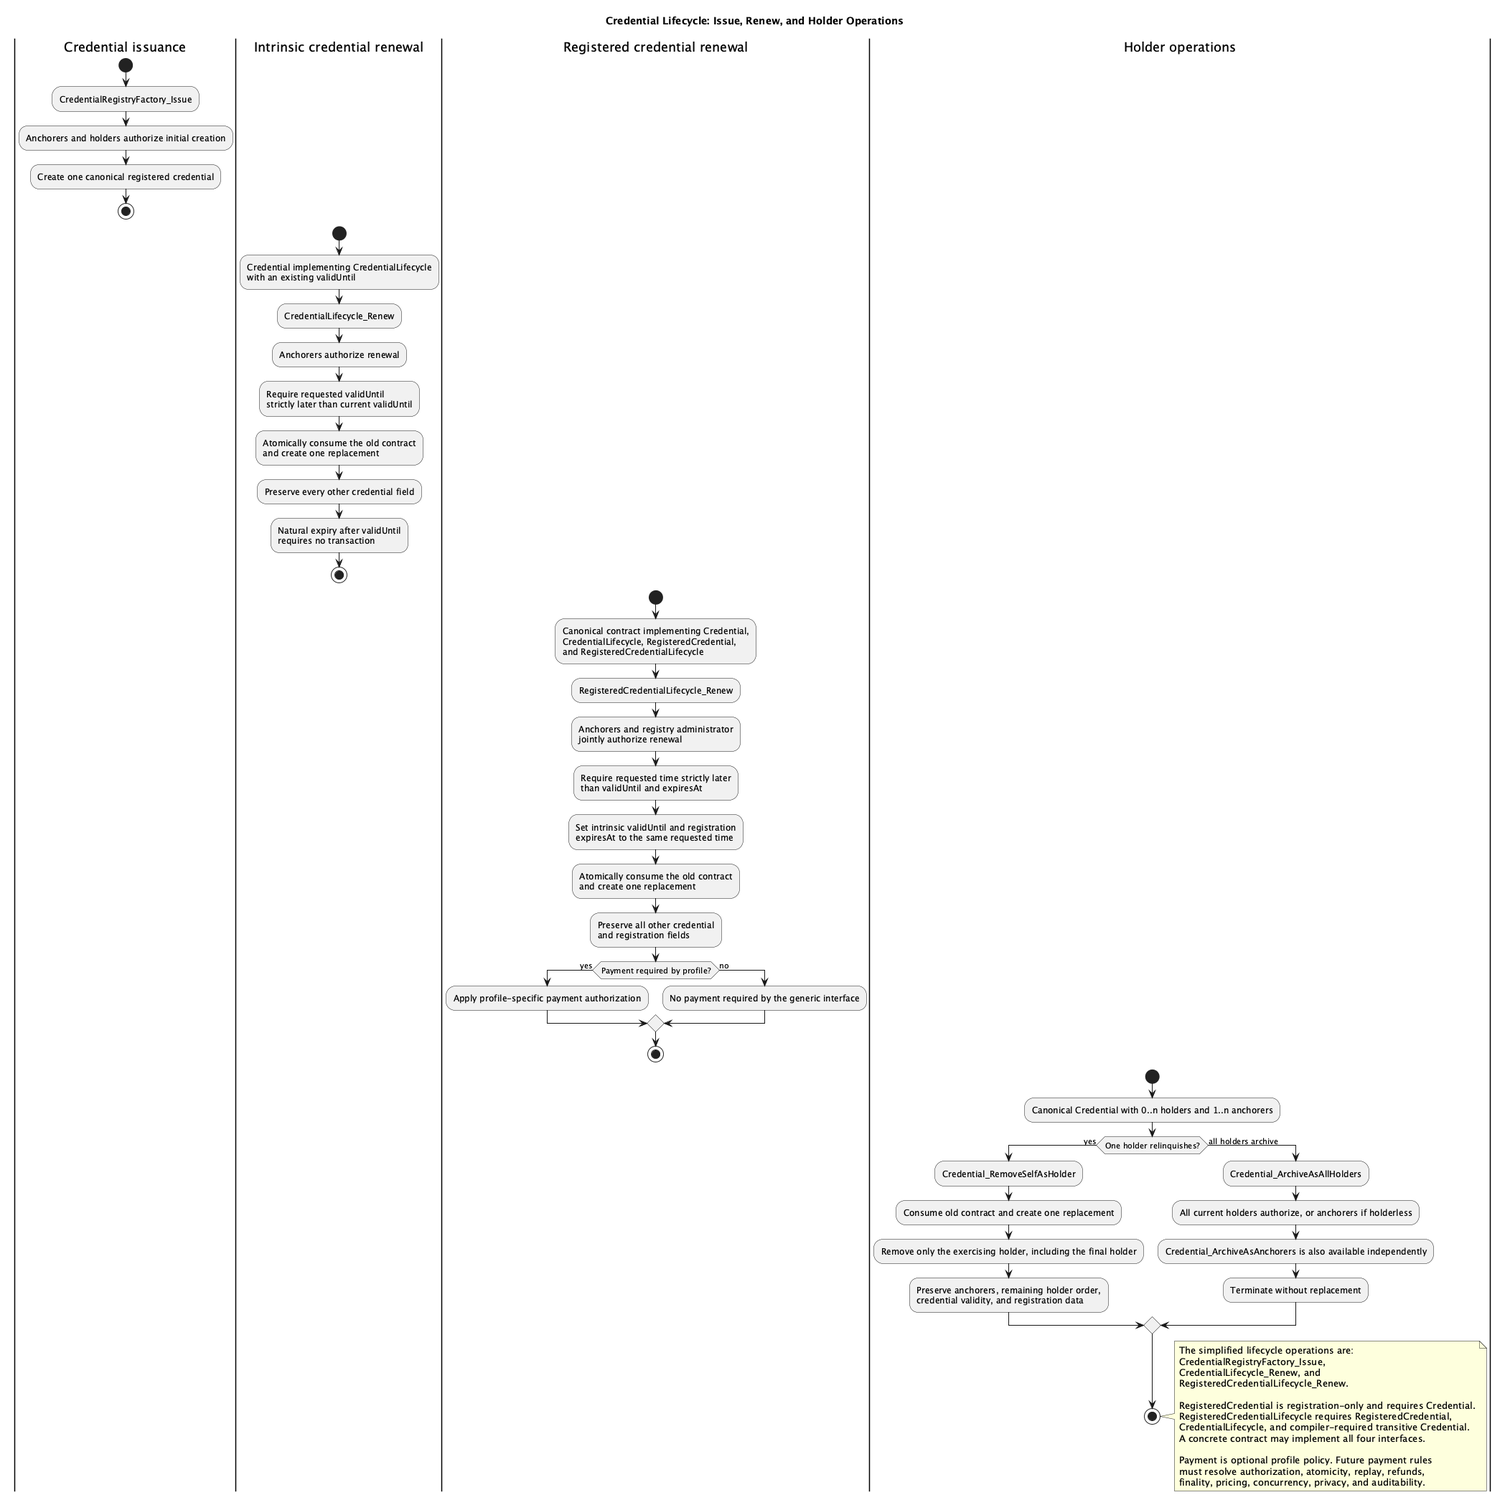
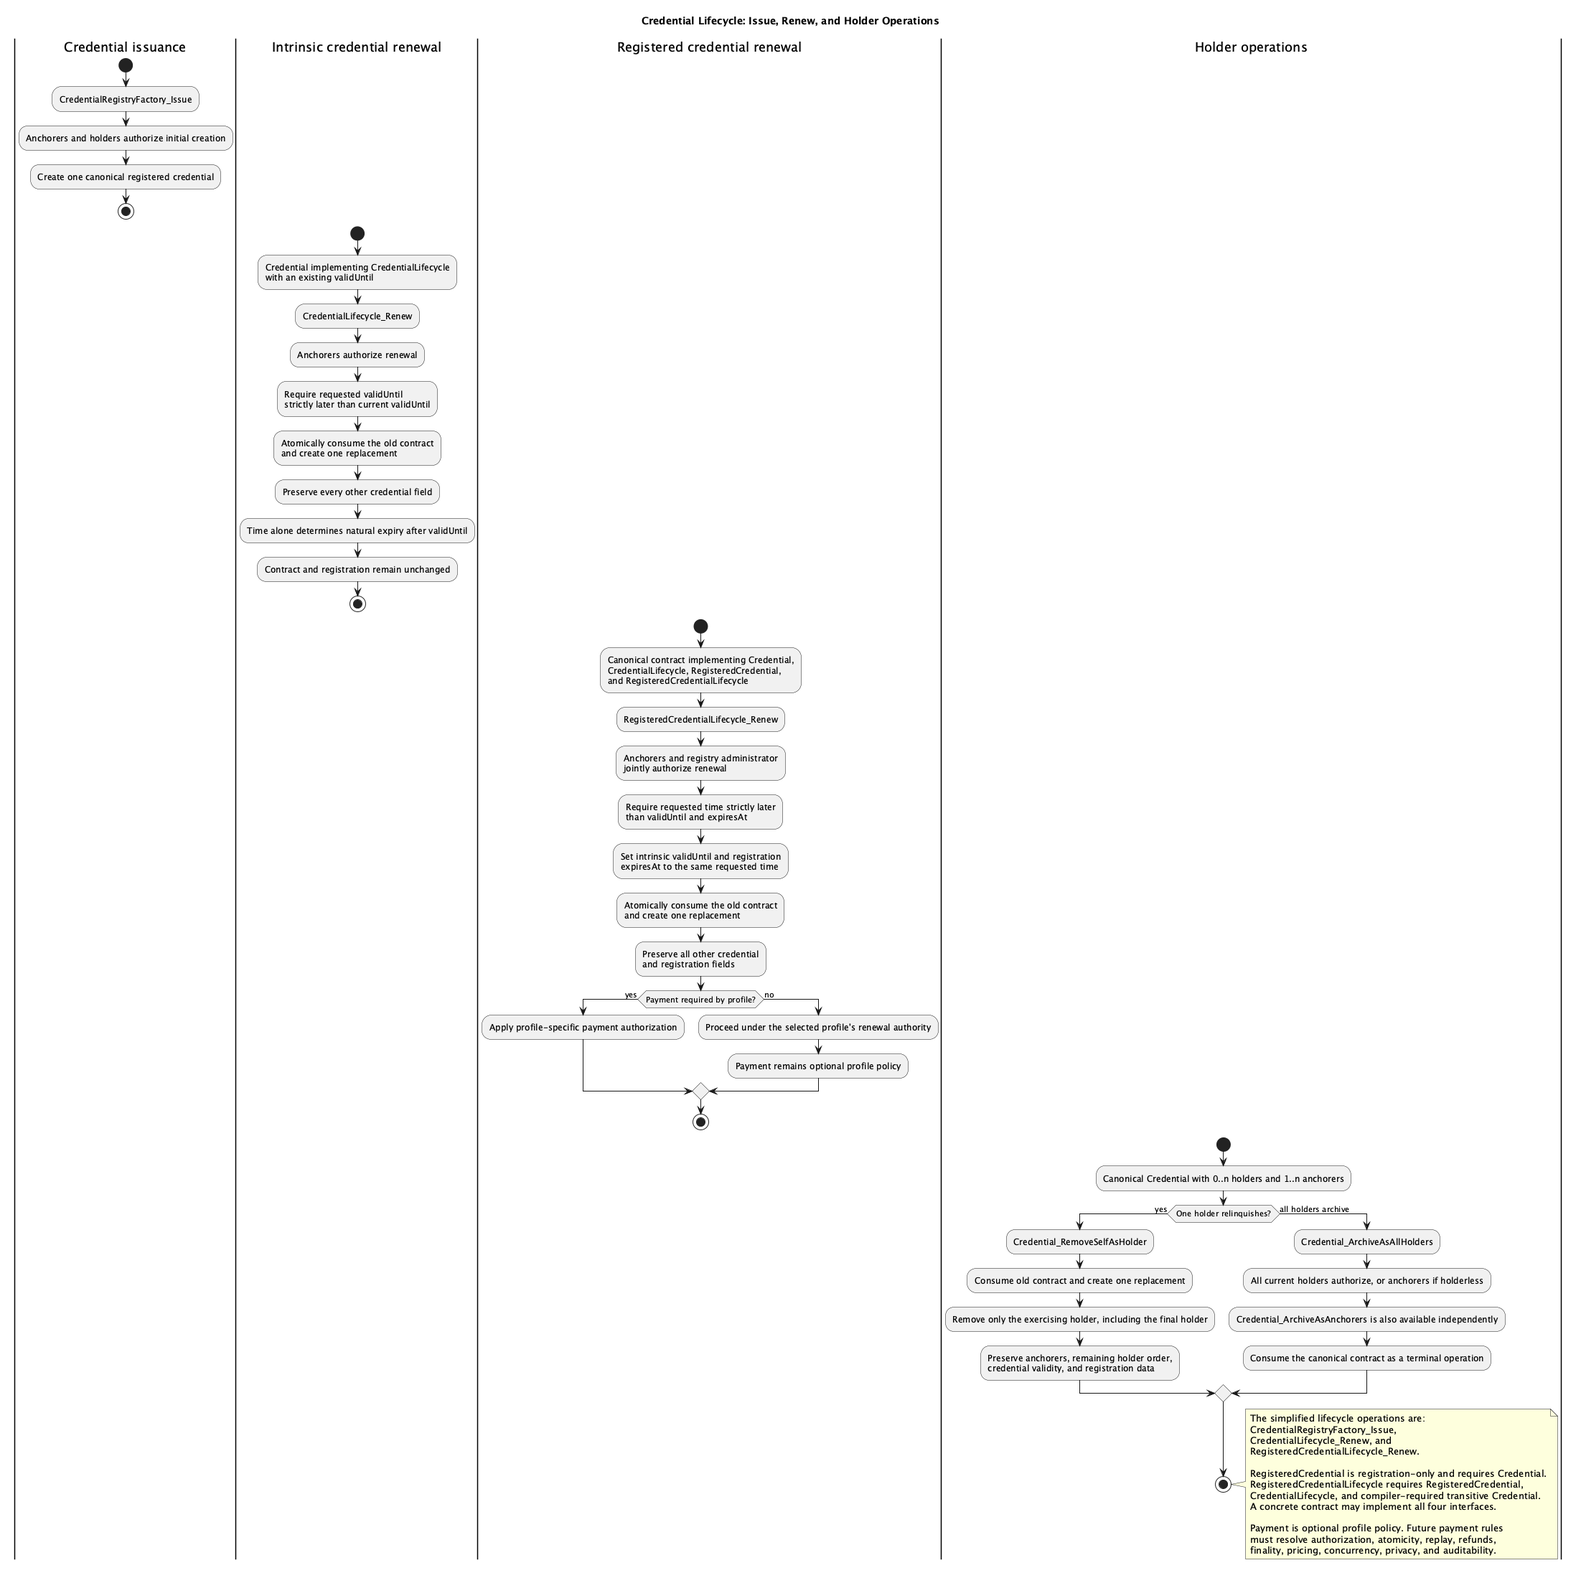
State DID and credential requirements affirmatively

diff --git a/cn-credentials-standard/cip-canton-network-credentials-standard.md b/cn-credentials-standard/cip-canton-network-credentials-standard.md
@@ -102,7 +102,7 @@ In practice, clients use the typed fields according to their declared roles, and
   | `CredentialView.id : Optional Text` | Credential [`id`](https://www.w3.org/TR/vc-data-model-2.0/#identifiers) | Profile-defined URL when present | Semantic correspondence; the Daml value requires profile mapping. |
   | `CredentialView.credentialTypes : [Text]` | W3C [`type`](https://www.w3.org/TR/vc-data-model-2.0/#types) | Serialize as JSON-LD `type` values | A W3C-exportable representation MUST include `VerifiableCredential` among the values. |
   | `CredentialView.issuer : W3C_VC_Identifier` | [`issuer`](https://www.w3.org/TR/vc-data-model-2.0/#issuer) | Identifier selected by the ADT variant | Issuer identity retains its field-specific role. |
-  | `CredentialView.validFrom : Optional Time`; `CredentialView.validUntil : Optional Time` | [`validFrom`, `validUntil`](https://www.w3.org/TR/vc-data-model-2.0/#validity-period) | Profile-defined date-time representation | Start of validity and optional intrinsic end of validity. Natural expiry after `validUntil` is derived and needs no ledger transaction. |
+  | `CredentialView.validFrom : Optional Time`; `CredentialView.validUntil : Optional Time` | [`validFrom`, `validUntil`](https://www.w3.org/TR/vc-data-model-2.0/#validity-period) | Profile-defined date-time representation | Start of validity and optional intrinsic end of validity. Natural expiry after `validUntil` is derived from time, independently of ledger transactions. |
   | `CredentialView.credentialSubject : NonEmpty CredentialSubject` | [`credentialSubject`](https://www.w3.org/TR/vc-data-model-2.0/#credential-subject) | One subject object or an array, as the profile permits | The interface enforces `1..n` subjects. |
   | `CredentialView.holders : [Party]` | Canton extension with no core-VC counterpart | Profile extension when defined | Zero or more operational holder Parties. |
   | `CredentialView.anchorers : NonEmpty Party` | Canton extension with no core-VC counterpart | Profile extension when defined | Nonempty anchoring authority, retained even when holders are empty; not proof of external issuer claims or signature. |
@@ -207,15 +207,15 @@ interface Credential where
 
 The generic interface standardizes the choice, argument, controller, preconditions, consuming replacement semantics, and result. The implementing template or profile constructs the concrete replacement and MUST satisfy its signatory, observer, and authorization rules. A holder-controlled interface exercise does not authorize creation under arbitrary template signatories. The required signatories are the stable deduplicated anchorer-plus-holder union; the concrete demo enforces this directly. Replacement preserves anchorers even when no holders remain.
 
-`Credential_ArchiveAsAllHolders` is terminal and controlled jointly by every holder, or by the nonempty anchorer list when holderless. `Credential_ArchiveAsAnchorers` independently allows the anchorers to archive any credential. Both create no replacement and never use an empty controller set. The base interface does not define issuer-authorized archival or revocation because `W3C_VC_Identifier Text` cannot control a Daml choice. A profile or template that needs either operation MUST define an explicit Party authorization mechanism and choice, and MUST NOT infer that Party from holders, subjects, claims, or external text. Wallets MAY remove their local reference or presentation without changing the ledger contract. They MUST distinguish that local action from holder relinquishment, global archival, issuer revocation, expiration, registry removal, and deregistration.
+`Credential_ArchiveAsAllHolders` is terminal and controlled jointly by every holder, or by the nonempty anchorer list when holderless. `Credential_ArchiveAsAnchorers` independently allows the anchorers to archive any credential. Both terminate the canonical contract; the controller set is always nonempty. The base interface does not define issuer-authorized archival or revocation because `W3C_VC_Identifier Text` cannot control a Daml choice. A profile or template that needs either operation MUST define an explicit Party authorization mechanism and choice, and MUST NOT infer that Party from holders, subjects, claims, or external text. Wallets MAY remove their local reference or presentation without changing the ledger contract. They MUST distinguish that local action from holder relinquishment, global archival, issuer revocation, expiration, registry removal, and deregistration.
 
 **Base `Credential` choices**
 
 | Choice | Controller | Preconditions | Consuming outcome |
 | --- | --- | --- | --- |
 | `Credential_RemoveSelfAsHolder` | Exactly `holder` | `holder` is current; final-holder removal is permitted | Replaces the canonical contract once, preserving credential state and remaining holder order; returns `replacementCredential : ContractId Credential`. |
-| `Credential_ArchiveAsAllHolders` | Every current holder jointly, or anchorers when holderless | The nonempty controller set authorizes | Terminates the current canonical contract without replacement. |
-| `Credential_ArchiveAsAnchorers` | All anchorers jointly | Anchorers authorize regardless of holder count | Terminates the current canonical contract without replacement. |
+| `Credential_ArchiveAsAllHolders` | Every current holder jointly, or anchorers when holderless | The nonempty controller set authorizes | Terminates the current canonical contract; this is a terminal operation. |
+| `Credential_ArchiveAsAnchorers` | All anchorers jointly | Anchorers authorize regardless of holder count | Terminates the current canonical contract; this is a terminal operation. |
 
 ###### Credential Interface Normalization
 
@@ -268,7 +268,7 @@ The registration view carries the administering Party, registration time, option
 
 Intrinsic credential lifecycle is registry-independent. Registration is optional, and intrinsic issuance, renewal, expiry, or archival neither requires nor implies registration, registration continuation, or a registry mutation. Conversely, registration retention does not extend, revive, or otherwise alter the credential. Implementations may keep the two lifecycles independent, expose them as separate operations, coordinate them atomically when a profile defines the required authority, or orchestrate them as multiple steps with explicit partial-failure handling. An optional capability MUST NOT mandate any deployment topology.
 
-Any operation that creates, extends, removes, or otherwise changes registration MUST have registry authorization. Renewal authority itself remains unresolved: authorization by the current credential anchorers together with `registryAdmin` is a candidate only, and a payer MAY be a different party. Payment evidence is a condition that a selected profile may require; payment is not generic authority to renew a credential or mutate a registration.
+Any operation that creates, extends, removes, or otherwise changes registration MUST have registry authorization. Renewal authority itself remains unresolved: authorization by the current credential anchorers together with `registryAdmin` is a candidate only, and a payer MAY be a different party. Payment evidence is an optional condition of a selected profile; intrinsic renewal and registration mutation still require their respective authorizations.
 
 The interface below is therefore candidate material rather than a completed generic renewal contract. Before standardization, the choice shape, controllers, independent time inputs, and failure semantics MUST be revised to match a selected profile. Callers MUST obtain `expectedRegistryAdmin` from a trusted source. Implementations MUST validate it against the view. Package vetting and registry-provider security review remain necessary.
 
@@ -381,7 +381,7 @@ A conforming implementation MUST provide logical indexes or equivalent access pa
 
 A registry item enables API-version rollout and reports each resource family's capabilities and constraints independently. It MUST identify the API version and, for both credentials and registered credentials, active, inactive-record, and event-history capabilities; supported lifecycle scopes and filters; and default and maximum page sizes. It MAY report additional implementation limits, including limits on subject claims or stored credentials. See [DSO Credential Registry Limits](#dso-credential-registry-limits).
 
-The collection MUST page distinct logical `registryAdmin` values before loading and aggregating their factory rows, so one logical registry is never split across pages. It uses the common zero-based pagination contract with default page size `50`, maximum `100`, `pageSize + 1` look-ahead, deterministic ascending `registryId` ordering, and an `items`, `page`, `pageSize`, `hasNext` response without a total count. Exact unknown registry lookup MUST return `404`. Registry collection pagination is offset-based and does not provide snapshot consistency; concurrent factory changes can cause duplicates or omissions across page requests.
+The collection MUST page distinct logical `registryAdmin` values before loading and aggregating their factory rows, so one logical registry is never split across pages. It uses the common zero-based pagination contract with default page size `50`, maximum `100`, `pageSize + 1` look-ahead, deterministic ascending `registryId` ordering, and an `items`, `page`, `pageSize`, `hasNext` response without a total count. Exact unknown registry lookup MUST return `404`. Registry collection pagination uses the current offset-based view for each request; concurrent factory changes can cause duplicates or omissions across page requests because the pages are not bound to a shared snapshot.
 
 ##### Credential Lookup API
 
@@ -411,7 +411,7 @@ Event-history pagination follows the same bounds and look-ahead rule but uses th
 
 #### Credential Lifecycle
 
-The normative lifecycle model contains exactly `CredentialRegistryFactory_Issue`, `CredentialLifecycle_Renew`, and `RegisteredCredentialLifecycle_Renew`. `CredentialView.validUntil` defines intrinsic expiry. Natural passage beyond it changes usability as a derived condition and requires no ledger transaction. `RegisteredCredentialView.expiresAt` defines registry retention and remains a distinct field.
+The normative lifecycle model contains exactly `CredentialRegistryFactory_Issue`, `CredentialLifecycle_Renew`, and `RegisteredCredentialLifecycle_Renew`. `CredentialView.validUntil` defines intrinsic expiry. Natural passage beyond it changes usability as a time-derived condition, independently of ledger transactions. `RegisteredCredentialView.expiresAt` defines registry retention and remains a distinct field.
 
 ![Credential lifecycle showing initial issuance, intrinsic renewal, atomic registered renewal, holder self-removal, and all-holder archival.](images/credentials-lifecycle.png)
 
@@ -425,13 +425,13 @@ The normative lifecycle model contains exactly `CredentialRegistryFactory_Issue`
 | Credential with finite `validUntil` | `CredentialLifecycle_Renew` | Replacement credential | Unresolved; current anchorers are a candidate | Requested `validUntil` MUST be strictly later. The old contract is consumed and exactly one replacement is created atomically, preserving other fields. Registration is unchanged and need not continue. |
 | Registered credential | Profile-defined registration extension | Replacement registration view | Registry authorization; payment MAY be an additional condition | A new `expiresAt` affects registration only. It MUST NOT alter or revive the credential or require equality with `validUntil`. |
 | Credential and registration selected for coordinated change | Optional profile adapter or orchestrator | Profile-defined results | Both intrinsic and registry authorities | May coordinate independent operations atomically or orchestrate separate operations, with topology and failure semantics declared by the profile. |
-| Any credential | Natural passage beyond `validUntil` | Derived expired usability | None | No transaction or registry change. |
+| Any credential | Natural passage beyond `validUntil` | Derived expired usability | None | Time alone determines expiry; the contract and registration remain unchanged. |
 
 `CredentialLifecycle` is optional and requires `Credential`. `RegisteredCredential` is registration-only and requires `Credential`, so lifecycle support is not mandatory on registration. `CredentialView.validUntil` and `RegisteredCredentialView.expiresAt` are independent and MUST NOT be required to exist together or be equal. A registration may outlive an intrinsically expired credential for retention or audit purposes, but cannot make it valid. An intrinsic credential may remain valid after registration expires or is removed. `RegisteredCredentialLifecycle` is an optional coordination candidate; its presence MUST NOT couple the lifecycles or prescribe whether components are colocated, separate, atomically coordinated, or orchestrated.
 
-The generic model keeps intrinsic validity and registry retention separate. The DSO profile requires `validUntil == expiresAt` where both are present and renews both atomically. Payment MAY be additional profile-specific authorization for `RegisteredCredentialLifecycle_Renew`; it is not part of the generic interface.
+The generic model keeps intrinsic validity and registry retention separate. The DSO profile requires `validUntil == expiresAt` where both are present and renews both atomically. Payment MAY be an additional profile-specific condition for `RegisteredCredentialLifecycle_Renew`; the generic interface's renewal authority remains unresolved.
 
-Holder relinquishment and all-holder archival remain distinct `Credential` operations. Relinquishment removes only the exercising holder and replaces the contract while preserving validity and registration. All-holder archival terminates the canonical credential without replacement. A removed holder loses future stakeholder visibility according to concrete stakeholder behavior, but previously observed ledger data cannot be erased.
+Holder relinquishment and all-holder archival remain distinct `Credential` operations. Relinquishment removes only the exercising holder and replaces the contract while preserving validity and registration. All-holder archival is terminal and consumes the canonical credential. A removed holder loses future stakeholder visibility according to concrete stakeholder behavior, but previously observed ledger data cannot be erased.
 
 
 

diff --git a/cn-did-standard/cip-canton-network-did-standard.md b/cn-did-standard/cip-canton-network-did-standard.md
@@ -41,8 +41,8 @@ The System Context elements below identify the people and external systems shown
 
 The standard is decomposed into two layers, presented in dependency order:
 
-1. **Layer 1: DID Document, Control, and Resolution Standard.** This layer covers the DID-to-Canton-Party association, DID Document data model and verification methods, control, creation, update, rotation, recovery, deactivation, authoritative state, and current and historical resolution. A conforming design needs integrity, source authentication, canonical version, freshness, and finality rules. The DID state authority and its visibility boundary must be explicit: maintaining state does not imply universal visibility, and the final design must define which parties can maintain and observe DID-related state.
-2. **Layer 2: Standardized Application and Metadata Discovery.** This layer uses DID Document `service` entries to publish versioned endpoint profiles, capabilities, and routing metadata. It defines how clients discover and select compatible application interfaces and how discovery mechanisms coexist, migrate, and resist downgrade. Resolver and registrar interfaces should interoperate with standards-aligned external tooling without requiring one identity-agent framework or inventing a Canton-specific agent model.
+1. **Layer 1: DID Document, Control, and Resolution Standard.** This layer covers the DID-to-Canton-Party association, DID Document data model and verification methods, control, creation, update, rotation, recovery, deactivation, authoritative state, and current and historical resolution. A conforming design needs integrity, source authentication, canonical version, freshness, and finality rules. The DID state authority and its visibility boundary must be explicit: visibility is scoped to the parties named by the final design for maintaining and observing DID-related state.
+2. **Layer 2: Standardized Application and Metadata Discovery.** This layer uses DID Document `service` entries to publish versioned endpoint profiles, capabilities, and routing metadata. It defines how clients discover and select compatible application interfaces and how discovery mechanisms coexist, migrate, and resist downgrade. Resolver and registrar interfaces should interoperate with standards-aligned external tooling through their supported interface boundaries, independently of any particular identity-agent framework or Canton-specific agent model.
 
 The boundary between on-ledger and off-ledger responsibilities is part of the architecture. A deployment can keep authoritative DID state or binding evidence on-ledger while exposing standards-aligned resolver and registrar interfaces off-ledger, but it must specify the authority, visibility, authentication, version, freshness, and finality properties of that boundary. Credential presentation and cryptographic credential verification occur outside the DID Document and can remain off-ledger. Applications can consume reduced outputs from separate verification or policy processes, but those outputs do not become DID Document or DID resolution semantics.
 
@@ -225,7 +225,7 @@ The choice checks that the result names `expectedRegistryAdmin`. It verifies a k
 
 ##### HTTP Interfaces
 
-The HTTP surface is a resolver and discovery boundary over registry-enabled documents. It does not imply that one registry is authoritative for every `did:canton` DID, make ledger data universally visible, or replace method-specific verification.
+The HTTP surface is a resolver and discovery boundary over registry-enabled documents. Authority remains method-specific rather than network-wide by virtue of a single registry; ledger visibility retains its deployment scope, and clients still perform method-specific verification.
 
 The DID HTTP surface uses a leading API version and a top-level DID collection. A future Layer 2 profile may select the API origin and root; this draft does not define that mechanism. Source, administrator, authority, and evidence remain resolution metadata rather than path components.
 
@@ -271,7 +271,7 @@ Resolver and registrar interoperability remains defined at supported interface b
 
 #### Visibility and Publication Boundaries
 
-The DID state authority and deployment profile must define which parties can maintain and observe DID-related state. Publication of a DID Document can make its controllers, verification methods, services, and operational relationships visible; authoritative maintenance does not imply universal visibility, and an off-ledger interface does not change the underlying authority or publication boundary.
+The DID state authority and deployment profile must define which parties can maintain and observe DID-related state. Publication of a DID Document can make its controllers, verification methods, services, and operational relationships visible; visibility remains scoped by the publication boundary, while an off-ledger interface preserves the underlying authority and publication boundary.
 
 #### Security Considerations
 
